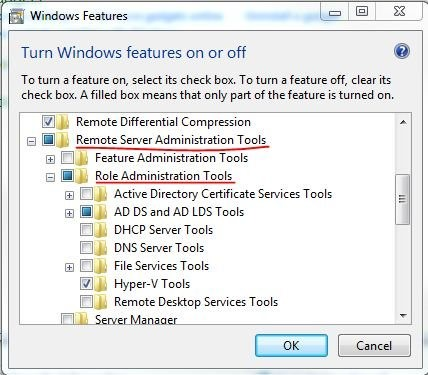
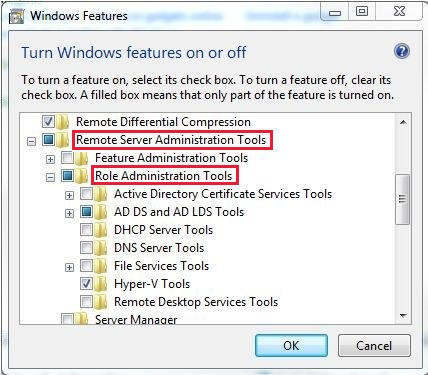
update some images per Phoebe's request

Changed region(s): [[0.1519, 0.3227, 0.6379, 0.4107], [0.2126, 0.44, 0.5771, 0.4987], [0.0, 0.0, 0.0304, 0.0293]]

diff --git a/support/windows-server/system-management-components/remote-server-administration-tools.md b/support/windows-server/system-management-components/remote-server-administration-tools.md
@@ -30,7 +30,7 @@ Installing RSAT is similar to installing Adminpak.msi in Windows 2000-based or W
 
 In the RSAT releases for Windows 10, tools are again all enabled by default. You can open **Turn Windows features on or off** to disable tools that you don't want to use for Windows 7.
 
-:::image type="content" source="./media/remote-server-administration-tools/turn-windows-features-on-or-off.jpg" alt-text="Turn Windows features on or off option in Windows 7.":::
+:::image type="content" source="./media/remote-server-administration-tools/turn-windows-features-on-or-off.png" alt-text="Turn Windows features on or off option in Windows 7.":::
 
 For RSAT in Windows 7, you must enable the tools for the roles and features that you want to manage after you run the downloaded installation package.
 

diff --git a/support/windows-client/application-management/dotnet-framework-35-installation-error.md b/support/windows-client/application-management/dotnet-framework-35-installation-error.md
@@ -126,7 +126,7 @@ To use the **Add Roles and Features Wizard**, follow these steps:
 
 5. On the **Specify Alternate Source Path** page, type the path of the *SxS* folder as a local path or as a network share path. The screenshot for this step is listed below.
 
-    ![path of the SxS folder](./media/dotnet-framework-35-installation-error/path_of_the_SxS_folder.png)  
+    ![Path of the SxS folder](./media/dotnet-framework-35-installation-error/path-of-the-sxs-folder.png)  
 
 6. Click **OK**.
 7. Click **Install** to finish the wizard.
